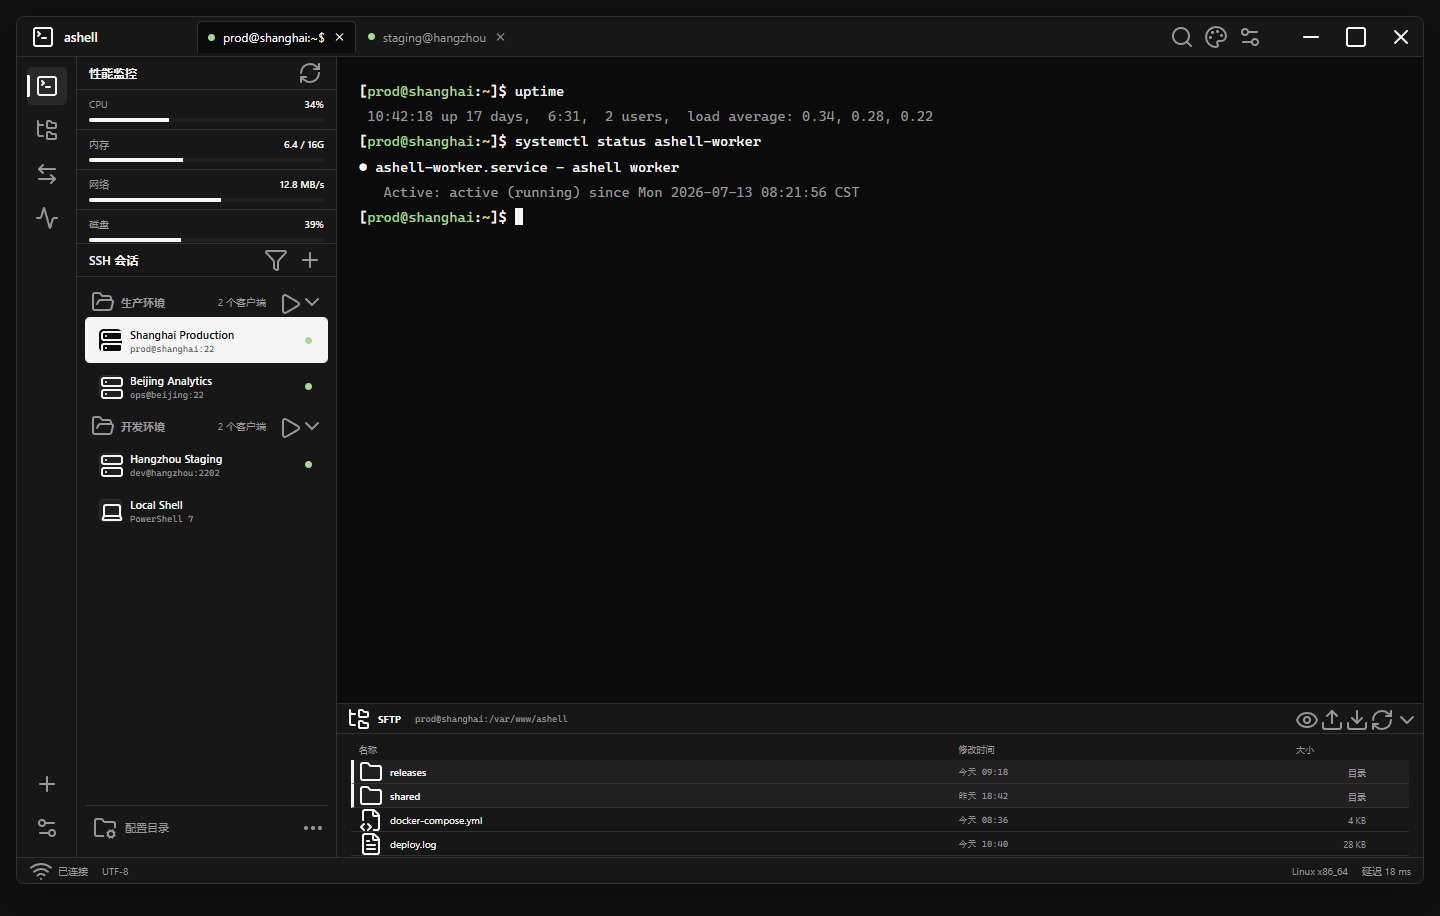
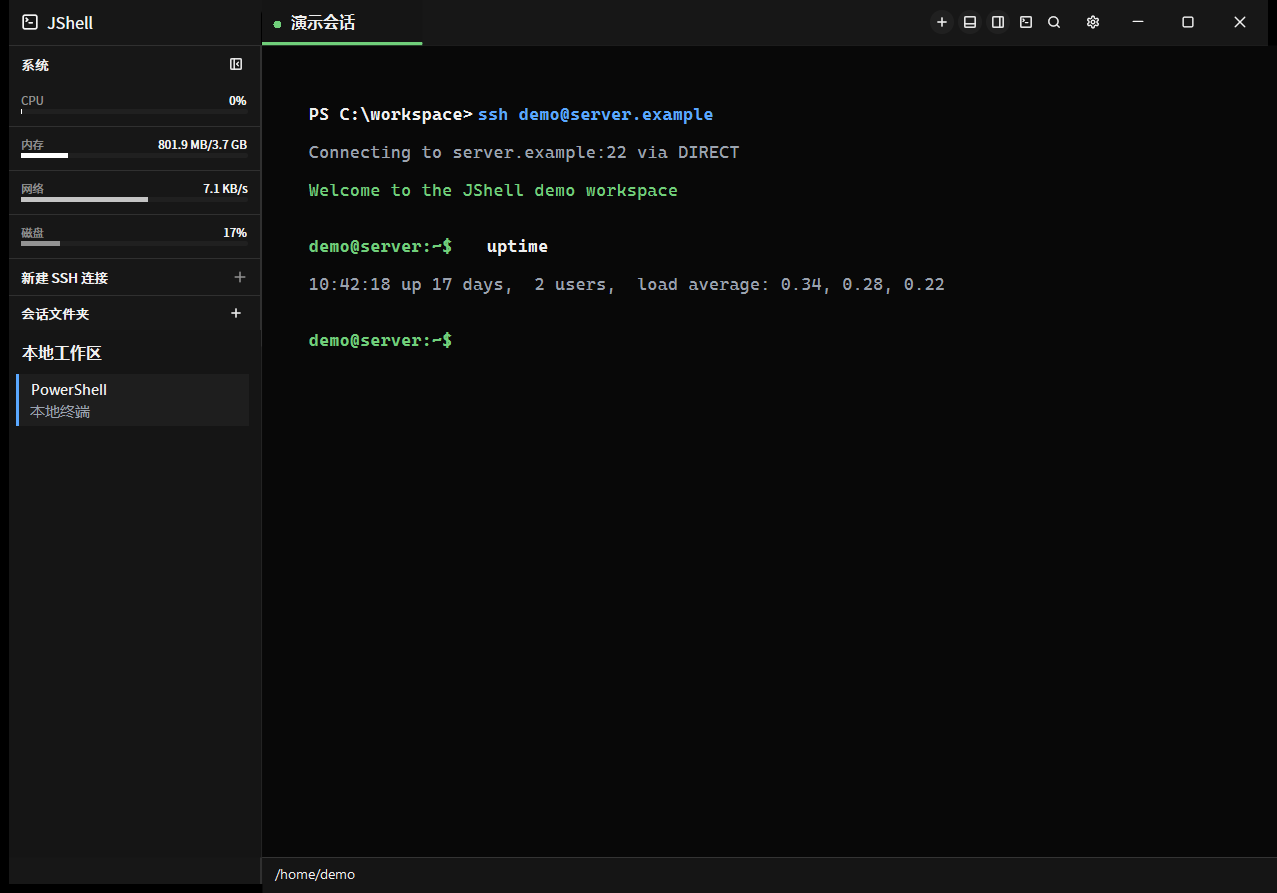
docs(release): finalize beta.2 audit and build guidance

diff --git a/docs/RELEASE_AUDIT_0.1.0-beta.2.md b/docs/RELEASE_AUDIT_0.1.0-beta.2.md
@@ -1,0 +1,75 @@
+# JShell v0.1.0-beta.2 发布审计与任务完成记录
+
+审计日期：2026-07-31
+审计范围：当前分支相对 `v0.1.0-beta.1` 的依赖、安全、品牌和发布收尾修改
+审计原则：复核本轮修改及此前对话要求的落地状态，不重新审计无关模块
+
+## 1. 结论
+
+此前对话要求的代码、中文文档、品牌资源和构建流程均已落地。`RUSTSEC-2023-0071` 对应的 RustCrypto `rsa` crate 已从最终依赖图移除，`cargo audit` 当前无漏洞或维护性告警。旧标签 `v0.1.0-beta.1` 保持不动，本轮版本递增为 `0.1.0-beta.2`。
+
+## 2. 功能完成度
+
+| 范围 | 当前状态 |
+|---|---|
+| P0 主机密钥校验、P1 配置凭据保护与原子保存 | 已实现并有回归测试 |
+| SSH 直连、全局代理、自定义代理和统一 SOCKS5/SOCKS5H/HTTP/HTTPS 入口 | 已实现并有路由、TLS 与失败关闭测试 |
+| 命令输入显示开关移到底部，保留大文件分页按钮 | 已实现；分页按钮位于大文件底部工具栏 |
+| B1 标签方案和全部标签状态色带 | 已实现；终端、文件、警告、错误和离线状态语义有测试 |
+| Linux 文件权限、删除、单击聚焦、复选框选择、双击目录/文件 | 已实现并有 SFTP 操作测试 |
+| SFTP 连接监视、退避重连和副作用操作不自动重放 | 已实现并有连接代次与重放策略测试 |
+| 终端/编辑器混合分屏、编辑器独立窗口、自动换行持久化 | 已实现并有布局与窗口状态测试 |
+| 断线保留编辑内容、保存状态、冲突和结果未知语义 | 已实现；断线不自动保存、不盲目重试 |
+| 混合工作区标题只显示当前文件名，Windows 任务栏动态标题 | 已实现并有窗口标题测试 |
+| Tree-sitter 多语言语法着色与 Shiki 评估 | 已完成；Shiki 不接入原生 GPUI 热路径 |
+| SSH 终端 Ctrl+滚轮缩放 | 已接入终端滚轮事件，按 0.5 px 步进并持久化字体设置 |
+| JShell 名称、PNG/ICO/ICNS、Windows 版本资源和三平台发布流程 | 已统一；旧 `ashell` 路径仅保留配置迁移和远端临时文件兼容用途 |
+| 双语 README 重写、中文默认文档和项目致谢 | 已完成；README 截图已替换为脱敏 JShell 窗口图 |
+
+## 3. RSA 安全修复
+
+JShell 继续支持读取 RSA 私钥和 RSA 用户认证，但只允许 `rsa-sha2-512` 与 `rsa-sha2-256`：
+
+- 禁止 `ssh-rsa`/SHA-1 默认、回退、签名和验签路径。
+- 删除 RSA 密钥生成所需的易受攻击 RustCrypto `rsa` 后端。
+- `russh` 与 `RustCrypto-SSH` 均固定到公开、可复现的完整提交。
+
+固定来源：
+
+- `JayhaShf/RustCrypto-SSH@5455fc09fc2508d09a59bd60879bb05111a9d013`
+- `JayhaShf/russh@705e92dfb551e458d376016ecc83f43be71b0aa1`
+
+专项验证：RustCrypto-SSH RSA 测试 `36/36`，russh 测试 `82/82`，JShell 测试 `197/197`。
+
+## 4. 最终验证
+
+| 命令或检查 | 结果 |
+|---|---|
+| `cargo fmt --check` | 通过 |
+| `cargo test --locked --quiet` | 通过，197 passed，0 failed |
+| `cargo check --locked --all-targets` | 通过 |
+| `cargo clippy --locked --all-targets --all-features -- -D warnings` | 通过 |
+| `cargo build --locked --release` | 通过 |
+| `cargo audit` | 通过；扫描 1023 个依赖，无公告输出 |
+| `cargo tree -i rsa --locked` | 未找到 `rsa` 包，符合预期 |
+| `git diff --check` | 通过 |
+
+Windows Release 产物：
+
+- 路径：`target/release/jshell.exe`
+- 大小：79,115,264 字节
+- 版本：`0.1.0-beta.2`
+- `ProductName` / `FileDescription` / `InternalName`：`JShell`
[1 lines of base64/hex data omitted]
+
+测试和构建中的唯一提示是 MSVC 链接器创建导入库的标准输出，不是代码告警或失败。
+
+## 5. 人工验收边界
+
+自动化已覆盖状态机、布局、权限格式、保存决策、连接代次和构建结果。以下项目仍属于发布前的真实环境冒烟，不应描述成自动化已经验证：
+
+- 真实 Linux SSH/SFTP 服务器上的权限、删除失败重试和静默断线恢复。
+- 真实远端文件的分屏编辑、独立窗口重挂和冲突保存。
+- 多窗口状态下 Windows 任务栏标题的实时切换。
+
+这些是运行环境验收项，不是当前已知代码残留。未经新的实测证据，不移动旧标签、不创建 beta.2 标签，也不发布 GitHub Release。

diff --git a/README.md b/README.md
@@ -2,7 +2,7 @@
 
 # JShell
 
-JShell 是一个使用 Rust、GPUI 与 `alacritty_terminal` 构建的桌面终端工作区，面向需要同时管理本地终端、SSH 会话、SFTP 文件和远程文本的用户。当前版本为 `0.1.0-beta.1`，默认界面与默认文档使用中文。
+JShell 是一个使用 Rust、GPUI 与 `alacritty_terminal` 构建的桌面终端工作区，面向需要同时管理本地终端、SSH 会话、SFTP 文件和远程文本的用户。当前版本为 `0.1.0-beta.2`，默认界面与默认文档使用中文。
 
 ![JShell 工作区预览](assets/screenshots/compact-workspace.png)
 
@@ -79,7 +79,7 @@ C:\Users\<用户名>\.config\jshell\sessions.json
 
 ## 开发与构建
 
-要求 Rust `1.88.0` 或更高版本，以及目标平台所需的 GPUI 系统依赖。
+要求 Rust `1.89.0` 或更高版本，以及目标平台所需的 GPUI 系统依赖。
 
 ```bash
 cargo run --locked

diff --git a/README.en.md b/README.en.md
@@ -2,7 +2,7 @@
 
 # JShell
 
-JShell is a Rust and GPUI desktop terminal workspace for local terminals, SSH sessions, SFTP file management, and remote text editing. The current release is `0.1.0-beta.1`; Chinese is the default UI and documentation language.
+JShell is a Rust and GPUI desktop terminal workspace for local terminals, SSH sessions, SFTP file management, and remote text editing. The current release is `0.1.0-beta.2`; Chinese is the default UI and documentation language.
 
 ![JShell workspace](assets/screenshots/compact-workspace.png)
 
@@ -44,7 +44,7 @@ The default configuration file is `~/.config/jshell/sessions.json`. JShell migra
 
 ## Development
 
-Rust `1.88.0` or newer is required.
+Rust `1.89.0` or newer is required.
 
 ```bash
 cargo run --locked

diff --git a/AUDIT_REPORT.md b/AUDIT_REPORT.md
@@ -1,5 +1,7 @@
 # JShell 代理链路与审计基线报告
 
+> 状态更新（2026-07-31）：本文主体保留 2026-07-29 的历史审计证据。当时记录的 `RUSTSEC-2023-0071` 和 7 条维护性告警已经在 `0.1.0-beta.2` 依赖维护中消除；当前结论与验证命令见 `docs/RELEASE_AUDIT_0.1.0-beta.2.md`。
+
 审计日期：2026-07-29
 审计范围：`D:\Git\ashell`
 范围约束：本轮仅修改 `src/backend/ssh.rs` 与 `AUDIT_REPORT.md`，未改 `.github`、发布流程、脚本或安装包配置，本轮未执行 `push`

diff --git a/docs/RELEASE_AUDIT_0.1.0-beta.1.md b/docs/RELEASE_AUDIT_0.1.0-beta.1.md
@@ -1,5 +1,7 @@
 # JShell v0.1.0-beta.1 发布审计与变更记录
 
+> 历史记录：本文件对应已固定的 `v0.1.0-beta.1` 标签。后续 RSA 安全依赖修复与最新验证结果记录在 `RELEASE_AUDIT_0.1.0-beta.2.md`，不回写或移动旧标签。
+
 审计日期：2026-07-30  
 审计范围：`D:\Git\ashell` 中自 `b8f8d63` 以来的未提交修改，以及本分支此前为本版本完成的 SSH、代理和安全修复  
 审计原则：只复核本版本修改过的代码与发布边界，不重新审计无关模块
